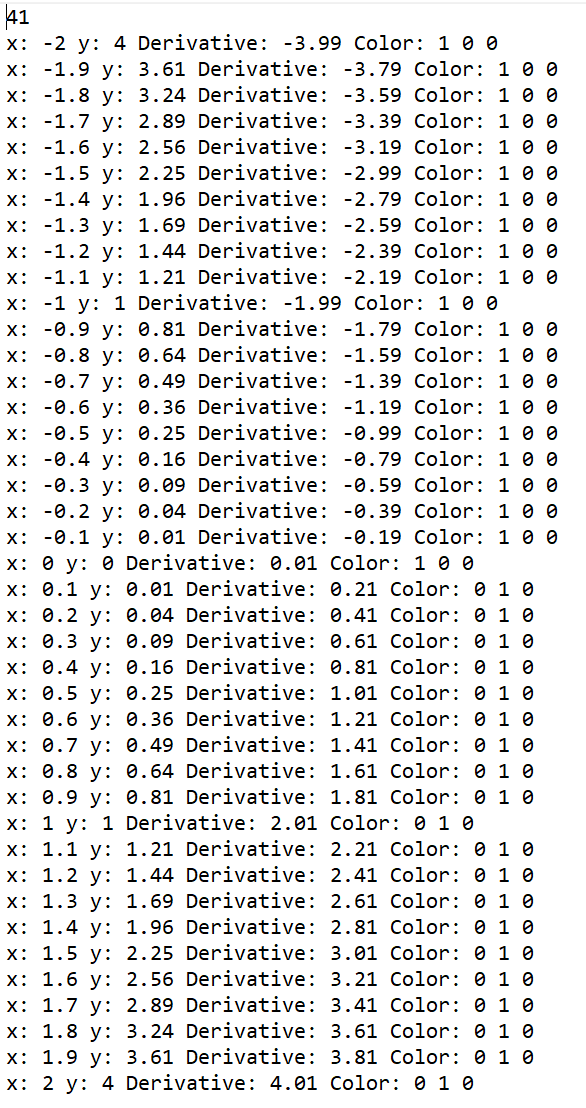
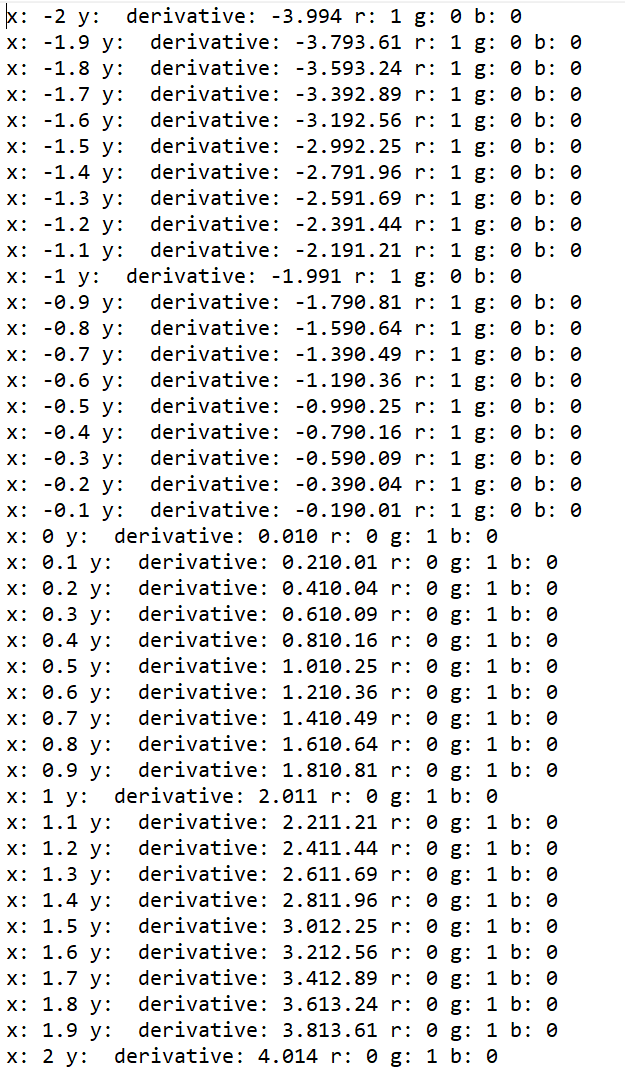
.

diff --git a/Oppgave 1/Oppgave 1/main.cpp b/Oppgave 1/Oppgave 1/main.cpp
@@ -1,12 +1,32 @@
 #include <iostream>
 #include <fstream>
 #include <cmath>
+#include<vector>
 #include <glad/glad.h>
 #include <GLFW/glfw3.h>
 using namespace std;
 
-//Generates 41 vertices (points on the graph) of the mathematical function x^2
-const int numberOfVertices = 41;
+//Stores the coordinates x, y
+vector<float> verticesPositions;
+//Stores the color coordinates for every single vertex 
+vector<float> spiralColors;
+//Stores the results of the derivative
+vector<float> derivativeResults;
+
+int numberOfDataPoints = 41;
+
+//Definition quantity
+double a = -2.0; //The start of the definition quantity
+double b = 2.0; //The end of the definition quantitity 
+
+//Intervals n+1
+int n = 40;
+
+//Calculates the dissolution of h
+double h = (b - a) / n;
+
+// Opens the text file for writing
+ofstream file("Data.txt");
 
 //Is a string literal that contains the source code for a vertex shader. 
 const char* vertexShaderSource = 
@@ -36,11 +56,12 @@ const char* fragmentShaderSource =
 "    FragColor = vec4(ourColor, 1.0);\n"
 "}\0";
 
-double function(const double x);
-double differenceQuotient(double x);
-
 void framebuffer_size_callback(GLFWwindow* window, int width, int height);
 void processInput(GLFWwindow* window);
+
+double function(const double x);
+double differenceQuotient(double x);
+void function();
 
 int main(void)
 {
@@ -55,7 +76,6 @@ int main(void)
         return -1;
     }
       
-
     //Specifies that the major and minor version of OpenGL is 3,3. 
     glfwWindowHint(GLFW_CONTEXT_VERSION_MAJOR, 3);
     glfwWindowHint(GLFW_CONTEXT_VERSION_MINOR, 3);
@@ -86,19 +106,6 @@ int main(void)
     glViewport(0, 0, 800, 600);
     //This function is called automatecally when the window is resized. 
     glfwSetFramebufferSizeCallback(window, framebuffer_size_callback);
-
-    //Definition quantity
-    double a = -2.0; //The start of the definition quantity
-    double b = 2.0; //The end of the definition quantitity 
-    
-    //Intervals n+1
-    int n = 40;
-
-    //Calculates the dissolution of h
-    double h = (b - a) / n;
-
-    // Opens the text file for writing
-    ofstream file("Data.txt");
 
     // Declares tree variables 
     unsigned int vertexShader, fragmentShader, shaderProgram;
@@ -156,88 +163,28 @@ int main(void)
     glDeleteShader(vertexShader);
     glDeleteShader(fragmentShader);
 
-    //'vertices' is an array used to store vertex data. The size of the array is the 'numberOfVertices' that in this case is set 
-    //to 100 multiplied with 5 (the values x, y, r, g, b)
-    float vertices[numberOfVertices * 5];
-    //An array where each element represents an index that refers to a vertex. 
-    //Are used to define the order in which the vertices schould be drawn. 
-    int indices[numberOfVertices];
+    function();
 
-    //Calls the function x^2 with the parameter 'a'(the start of the definition quantity)
-    double startingPoint = function(a);
-
-    file << numberOfVertices << endl;
-
-    //The for loop calculates a range of values to calculate the x,y and the derivative at each step. 
-    for (int i = 0; i < numberOfVertices; ++i) 
-    {
-        //Calculates the x value for the current iteration 
-        double x = a + i * h;
-        //Calulates the y value for the current iteration 
-        double y = function(x);
-        //Calculates the Newton's quotient at the current x value
-        double derivative = differenceQuotient(x);
-        //Assigns the x-coordinate value converted to a float to the first position in the 'vertices' array 
-        vertices[i * 5] = static_cast<float>(x);
-        //Assigns the y-coordinate value converted to a float to the second position in the 'vertices' array 
-        vertices[i * 5 + 1] = static_cast<float>(y);
-        //A boolean expression. If y is less than or equal to the starting point the result is 1,0f.
-        //The result is assigned to the red component position in the vertices array 
-        vertices[i * 5 + 2] = static_cast<float>(y <= startingPoint);  // Red
-        //A boolean expression. If y is greater than or the starting point the result is 1,0f.
-        //The result is assigned to the green component position in the vertices array 
-        vertices[i * 5 + 3] = static_cast<float>(y > startingPoint);   // Green
-        //The blue component is alwaya 0.0f
-        vertices[i * 5 + 4] = 0.0f;  // Blue
-
-        //Updates the startingPoint variable. 
-        startingPoint = y;
-        //Assigns the current value of 'i' in the 'i'-th element.
-        indices[i] = i;
-
-        //Writes information about the current values of x, y, and derivative to the output file 
-        file << "x: " << vertices[i*5] << " y: " << vertices[i*5+1] << " Derivative: " << derivative 
-            << " Color: " << vertices[i * 5 + 2] << " " << vertices[i * 5 + 3] << " " << vertices[i * 5 + 4] << endl;
-    }
-
-    unsigned int VAO, VBO, EBO;
-    //Generates one vertex array object and assigns its ID to the variable VAO
-    //VAO specify how vertex data is organized and accessed.
+    //Creates a VAO and binds it 
+    unsigned int VAO;
     glGenVertexArrays(1, &VAO);
-    //Generates one vertex buffer object and assigns its ID to the variable VBO.
-    //VBO is used to store vertex coordinates, color, normals and other attributes. 
-    glGenBuffers(1, &VBO);
-    //Generates one element buffer object and assigns its ID to the variable EBO.
-    //Is used for indexed rendering. 
-    glGenBuffers(1, &EBO);
-
-    
     glBindVertexArray(VAO);
 
-    // Binds VBO to the GL_ARRAY_BUFFER target
-    glBindBuffer(GL_ARRAY_BUFFER, VBO);
-    //Allocates memory for the VBO and fills it with data. Specifies the size of the data with a 
-    //static draw that will not be changed frequently. 
-    glBufferData(GL_ARRAY_BUFFER, sizeof(vertices), vertices, GL_STATIC_DRAW);
+    //Creates a VBO for the position and color to the graph
+    unsigned int VBO[2];
+    glGenBuffers(2, VBO);
 
-    // Binds the EBO to the GL_BUFFER_DATA target. 
-    glBindBuffer(GL_ELEMENT_ARRAY_BUFFER, EBO);
-    //Allicates memory for the EBO and fills it with data. Specifies the size of the data with a 
-    //static draw that will not be changed frequently. 
-    glBufferData(GL_ELEMENT_ARRAY_BUFFER, sizeof(indices), indices, GL_STATIC_DRAW);
-
-    // Specifies the attributes to a vertex. The parameters are the location, size of the attributes (x and y), 
-    //that the x and y values are float, false for normalization, byte offset and offset of where the x and y 
-    //values is in the array. 
-    glVertexAttribPointer(0, 2, GL_FLOAT, GL_FALSE, 5 * sizeof(float), (void*)0);
+    //Copies the x and y position to the graph to VBO
+    glBindBuffer(GL_ARRAY_BUFFER, VBO[0]);
+    glBufferData(GL_ARRAY_BUFFER, verticesPositions.size() * sizeof(float), verticesPositions.data(), GL_STATIC_DRAW);
+    glVertexAttribPointer(0, 2, GL_FLOAT, GL_FALSE, 2 * sizeof(float), (void*)0);
     glEnableVertexAttribArray(0);
 
-    //Same for color
-    glVertexAttribPointer(1, 3, GL_FLOAT, GL_FALSE, 5 * sizeof(float), (void*)(2 * sizeof(float)));
+    //Copies the color data for the graph to the VBO
+    glBindBuffer(GL_ARRAY_BUFFER, VBO[1]);
+    glBufferData(GL_ARRAY_BUFFER, spiralColors.size() * sizeof(float), spiralColors.data(), GL_STATIC_DRAW);
+    glVertexAttribPointer(1, 3, GL_FLOAT, GL_FALSE, 3 * sizeof(float), (void*)0);
     glEnableVertexAttribArray(1);
-
-    // Unbind VAO
-    glBindVertexArray(0);
 
     //Closes the text file
     file.close();
@@ -255,9 +202,7 @@ int main(void)
         // Bind VAO
         glBindVertexArray(VAO);
 
-        //GL_LINE STRIP draws a sequence of line regments, then how many vertices to be rendered, 
-        //the values in the index array and the offset into the index array, here the array starts from 0.
-        glDrawElements(GL_LINE_STRIP, numberOfVertices, GL_UNSIGNED_INT, 0);
+        glDrawArrays(GL_LINE_STRIP, 0, numberOfDataPoints);
 
         // Unbind VAO
         glBindVertexArray(0);
@@ -271,8 +216,7 @@ int main(void)
 
     // Cleans up and stops the program
     glDeleteVertexArrays(1, &VAO);
-    glDeleteBuffers(1, &VBO);
-    glDeleteBuffers(1, &EBO);
+    glDeleteBuffers(2, VBO);
     glDeleteProgram(shaderProgram);
 
     glfwTerminate();
@@ -307,4 +251,42 @@ double differenceQuotient(double x)
     //Calculates the Newtons quotient
     double h = 0.01;
     return (function(x + h) - function(x)) / h;
+}
+
+void function()
+{
+    for (int i = 0; i < numberOfDataPoints; ++i)
+    {   
+        double x = a + i * h;
+        double y = function(x);
+        double derivative = differenceQuotient(x);
+
+        //The two first lines stores the coordinates for x anf y. 
+        //The third line stores the derivative for each vertex 
+        verticesPositions.push_back(x);
+        verticesPositions.push_back(y);
+        derivativeResults.push_back(derivative);
+
+        float red, green, blue;
+        if (derivative > 0) {
+            //If derivative is greater than 0, the vertex color is green 
+            red = 0.0f;
+            green = 1.0f;
+            blue = 0.0f;
+        }
+        else {
+            //If the derivative is below 0, the vertex color is red. 
+            red = 1.0f;
+            green = 0.0f;
+            blue = 0.0f;
+        }
+
+        //These three lines are used to store the calculated values for r, g, b and put in the end of the vector
+        spiralColors.push_back(red);
+        spiralColors.push_back(green);
+        spiralColors.push_back(blue);
+
+        file << "x: " << x << " y: " << " derivative: " << derivative << y << " r: "
+            << red << " g: " << green << " b: " << blue << endl;
+    }
 }

diff --git a/Oppgave 2/Oppgave 2/main.cpp b/Oppgave 2/Oppgave 2/main.cpp
@@ -5,8 +5,6 @@
 #include <cmath>
 #include <fstream>
 
-//https://www.overleaf.com/project/65af96afd34739496ebf18ec
-
 using namespace std;
 
 //Parameters that are used to define the shape of the spiral 
@@ -113,19 +111,24 @@ int main() {
 
     Spiral();
 
-    unsigned int VAO, VBO, EBO;
+    //Creates a VAO and binds it 
+    unsigned int VAO;
     glGenVertexArrays(1, &VAO);
     glBindVertexArray(VAO);
-    glGenBuffers(1, &VBO);
-    glGenBuffers(1, &EBO);
 
-    glBindBuffer(GL_ARRAY_BUFFER, VBO);
+    //Creates a VBO for the position and color to the graph
+    unsigned int VBO[2];
+    glGenBuffers(2, VBO);
+
+    //Copies the x and y position to the graph to VBO
+    glBindBuffer(GL_ARRAY_BUFFER, VBO[0]);
     glBufferData(GL_ARRAY_BUFFER, verticesPositions.size() * sizeof(float), verticesPositions.data(), GL_STATIC_DRAW);
     glVertexAttribPointer(0, 3, GL_FLOAT, GL_FALSE, 3 * sizeof(float), (void*)0);
     glEnableVertexAttribArray(0);
 
-    glBindBuffer(GL_ELEMENT_ARRAY_BUFFER, EBO);
-    glBufferData(GL_ELEMENT_ARRAY_BUFFER, spiralColors.size() * sizeof(float), spiralColors.data(), GL_STATIC_DRAW);
+    //Copies the color data for the graph to the VBO
+    glBindBuffer(GL_ARRAY_BUFFER, VBO[1]);
+    glBufferData(GL_ARRAY_BUFFER, spiralColors.size() * sizeof(float), spiralColors.data(), GL_STATIC_DRAW);
     glVertexAttribPointer(1, 3, GL_FLOAT, GL_FALSE, 3 * sizeof(float), (void*)0);
     glEnableVertexAttribArray(1);
 
@@ -141,14 +144,13 @@ int main() {
         glUseProgram(shaderProgram);
         glBindVertexArray(VAO);
         glDrawArrays(GL_LINE_STRIP, 0, verticesPositions.size()/3);
-
+     
         glfwSwapBuffers(window);
         glfwPollEvents();
     }
 
     glDeleteVertexArrays(1, &VAO);
-    glDeleteBuffers(1, &VBO);
-    glDeleteBuffers(1, &EBO);
+    glDeleteBuffers(2, VBO);
     glDeleteProgram(shaderProgram);
 
     glfwTerminate();
